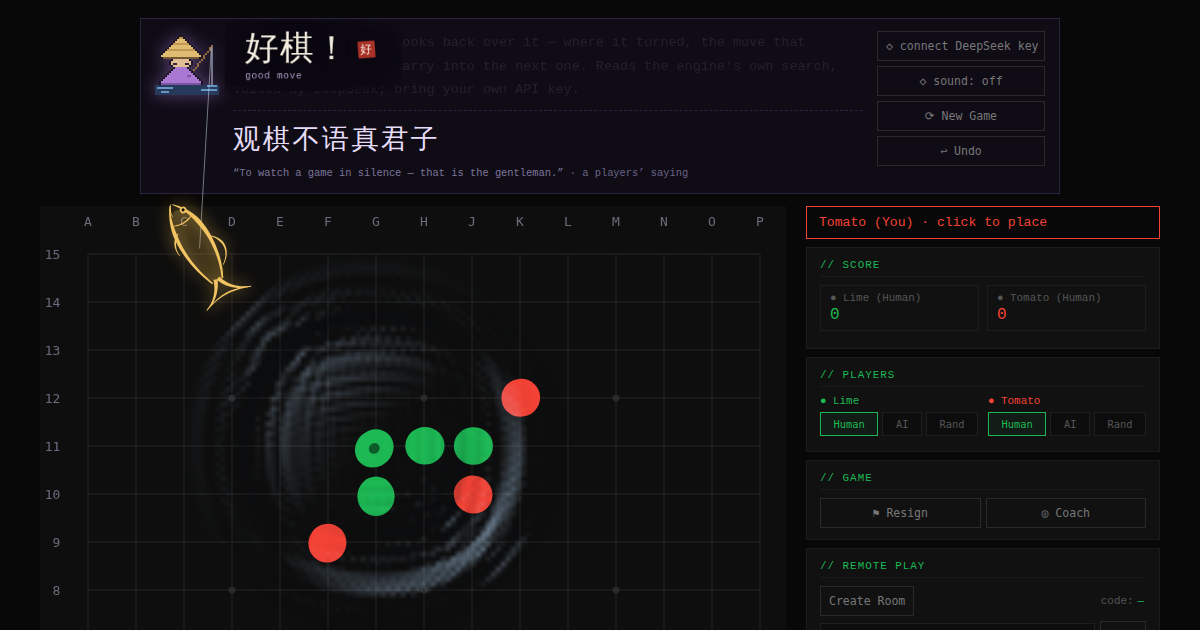
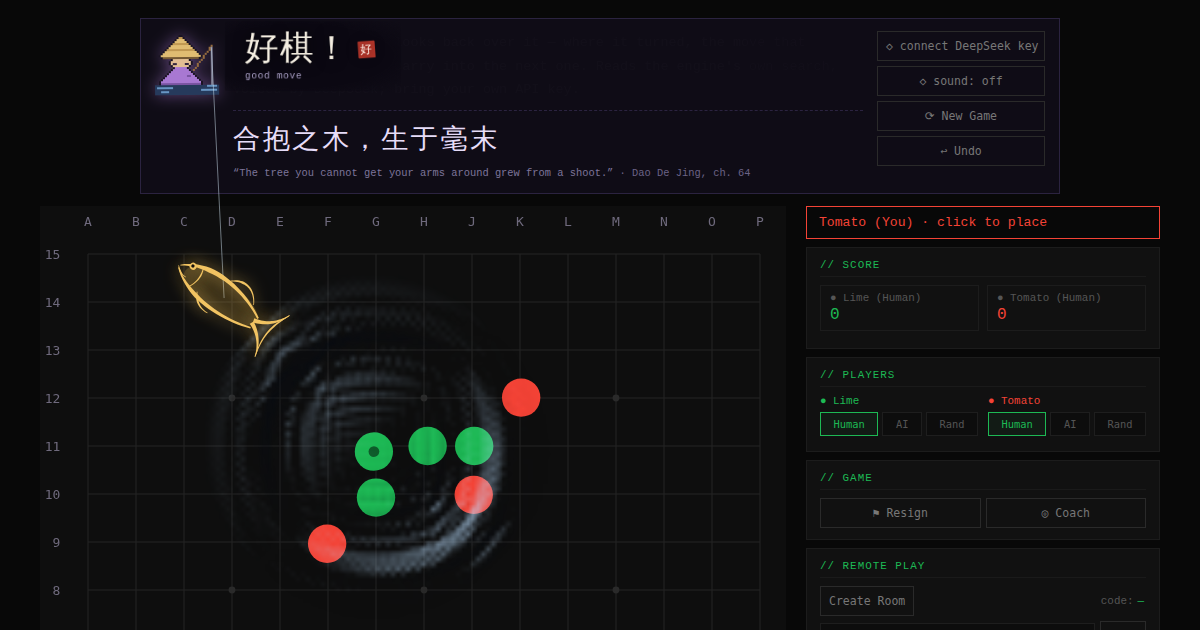
Give the arcade his face, and clear the ghost text from the share image
The front door now carries the guru instead of the brand mark. Pointed
at the same file rather than overwriting brand-favicon.png, which nine
other game pages still share and still want.

The share image had the hushed paragraph faintly showing through behind
his shout. At 10% that reads as motion in the running page and as dirt
in a still, so the capture clears it outright.

diff --git a/index.html b/index.html
@@ -16,7 +16,10 @@
   <meta name="twitter:description" content="Hand-coded browser games and RL agents in training.">
   <meta name="twitter:image"       content="https://lifegameproject.com/game/brand-og.png">
 
-  <link rel="icon" type="image/png" href="/game/brand-favicon.png?v=3">
+  <!-- The brand mark is still every game page's icon; the front door is his.
+       Pointed at the same file rather than overwriting brand-favicon.png,
+       which nine other pages share. -->
+  <link rel="icon" type="image/png" href="/game/guru-favicon.png?v=1">
   <link rel="manifest" href="/manifest.json">
   <meta name="theme-color" content="#0a0a0a">
   <link rel="apple-touch-icon" href="/icon-192.png">
